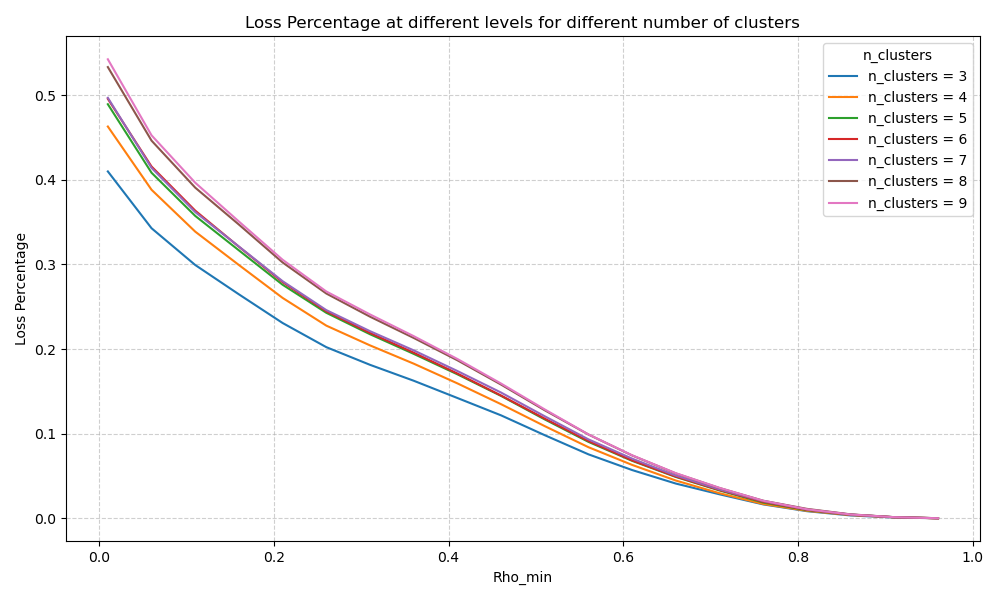
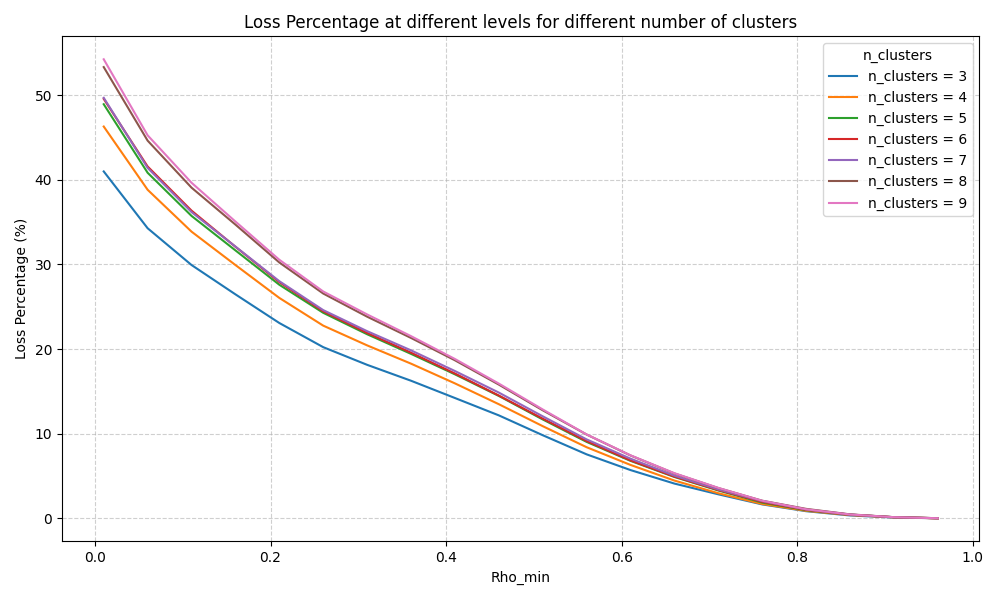
use percentage instead of decimal for loss

diff --git a/evaluation/loss_visualization.py b/evaluation/loss_visualization.py
@@ -10,11 +10,11 @@ df = pd.read_csv(folder_path / 'loss_results.csv')
 # plt.rcParams['text.usetex'] = True
 plt.figure(figsize=(10, 6))
 for rho, group in df.groupby('rho_min'):
-    plt.plot(group['n_clusters'], group['loss_percentage'], marker='o', label=f"rho_min = {rho}")
+    plt.plot(group['n_clusters'], group['loss_percentage']*100, marker='o', label=f"rho_min = {rho}")
 
 plt.title("Loss Percentage vs Number of Clusters for Different rho_min")
 plt.xlabel("Number of Clusters")
-plt.ylabel("Loss Percentage")
+plt.ylabel("Loss Percentage (%)")
 plt.legend(title="rho_min")
 plt.grid(visible=True, linestyle='--', alpha=0.6)
 plt.tight_layout()
@@ -23,11 +23,11 @@ plt.show()
 # Plot Loss Percentage vs Different rho_min for different Number of Clusters
 plt.figure(figsize=(10, 6))
 for n_clusters, group in df.groupby('n_clusters'):
-    plt.plot(group['rho_min'], group['loss_percentage'], marker='', label=f"n_clusters = {n_clusters}")
+    plt.plot(group['rho_min'], group['loss_percentage']*100, marker='', label=f"n_clusters = {n_clusters}")
 
 plt.title("Loss Percentage at different levels for different number of clusters")
 plt.xlabel("Rho_min")
-plt.ylabel("Loss Percentage")
+plt.ylabel("Loss Percentage (%)")
 plt.legend(title="n_clusters")
 plt.grid(visible=True, linestyle='--', alpha=0.6)
 plt.tight_layout()
